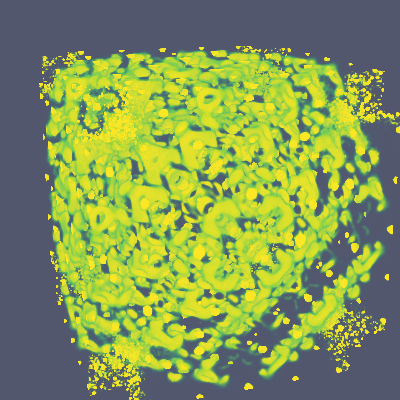
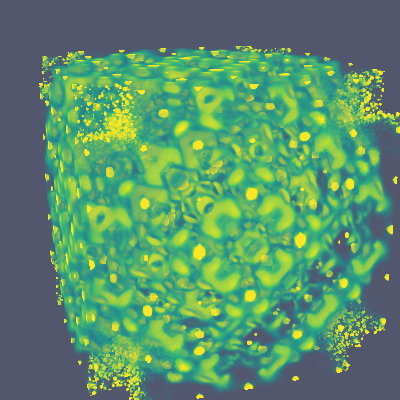
cron update

diff --git a/docs/paraview.md b/docs/paraview.md
@@ -974,9 +974,9 @@ scalars_LUT.ApplyPreset('Viridis (matplotlib)', True)
 # get opacity transfer function/opacity map for 'Scalars_'
 scalars_PWF = GetOpacityTransferFunction('Scalars_')
 scalars_PWF.RescaleTransferFunction(3e-05, 1e-04)
-#scalars_PWF.Points = [0, 0, 0, 0,
-#                      3e-05, 0.0, 0.5, 0.0,
-#                      1e-04, 1.0, 0.5, 0.0]
+scalars_PWF.Points = [0, 0, 0, 0,
+                      3e-05, 0.0, 0.5, 0.0,
+                      1e-04, 1.0, 0.5, 0.0]
 
 renderView1.CameraPosition = [30, 10, 10]
 
